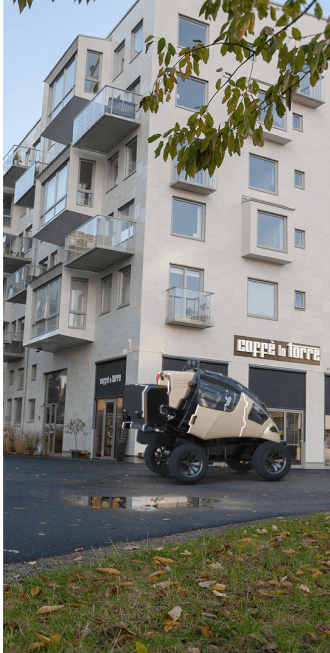
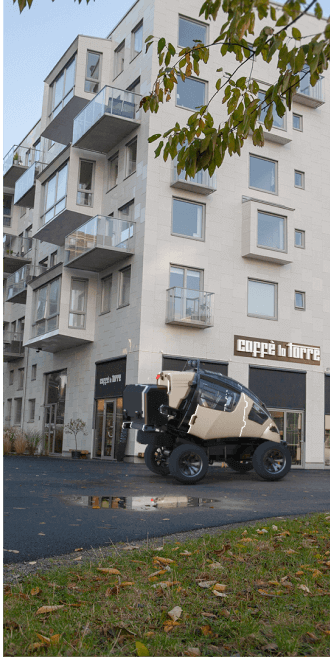
Switched images

diff --git a/public/index.html b/public/index.html
@@ -58,13 +58,15 @@
     <section class="hero">
       <div class="hero-container">
       <h2>The Capsule</h2>
-      
+
+
+      <picture class="hero-img">
+        <source media="(min-width: 650px)" srcset="./img/desktop/Desktop_02_Citatbild.png">
+        <source media="(min-width: 465px)" srcset="./img/mobile/Mobil_01_framsida.png">
+        <img src="./img/desktop/Desktop_03_LitenBil.png" alt="Car">
+      </picture>
     
-          <img src="./img/mobile/Mobil_01_framsida.png" class="hero-img" alt="">
-          
-    
-     
-   
+         
     <!-- Countdown Timer -->
 
     <section class="countdown-timer">
